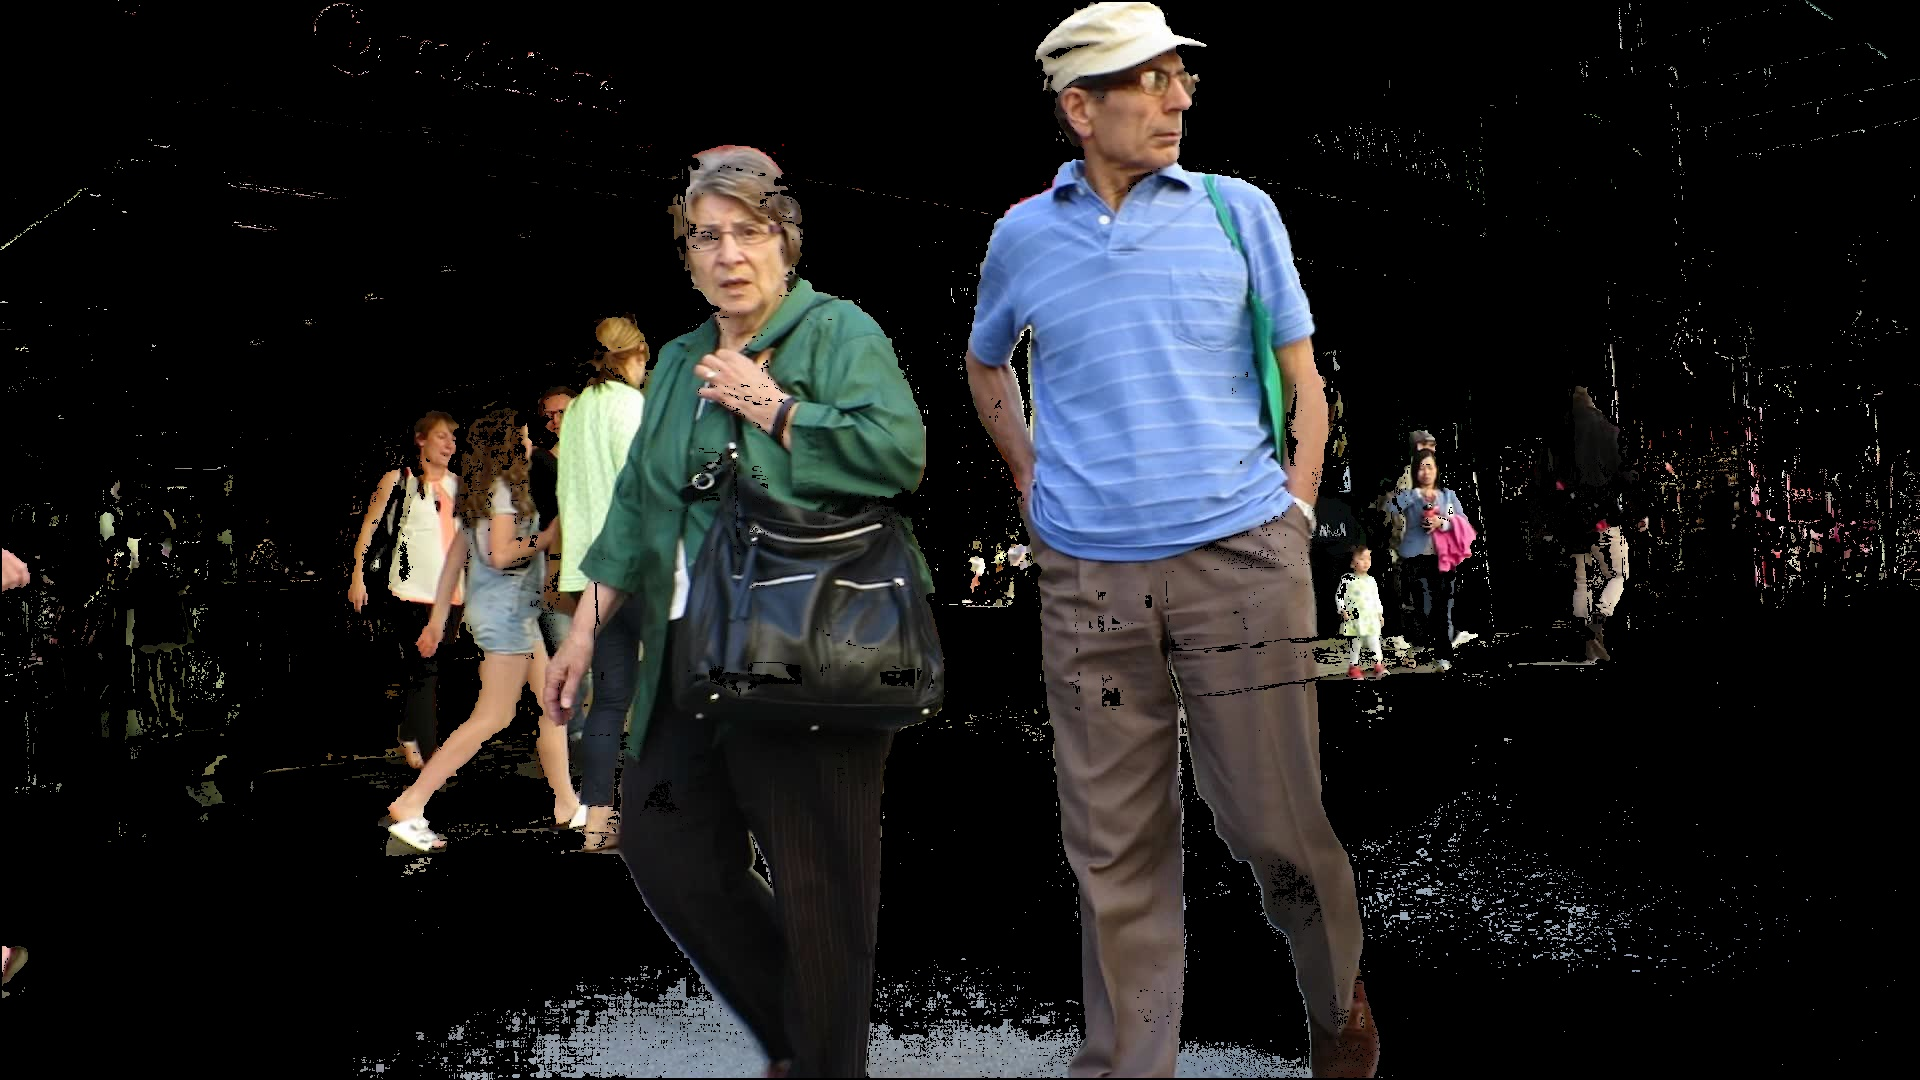
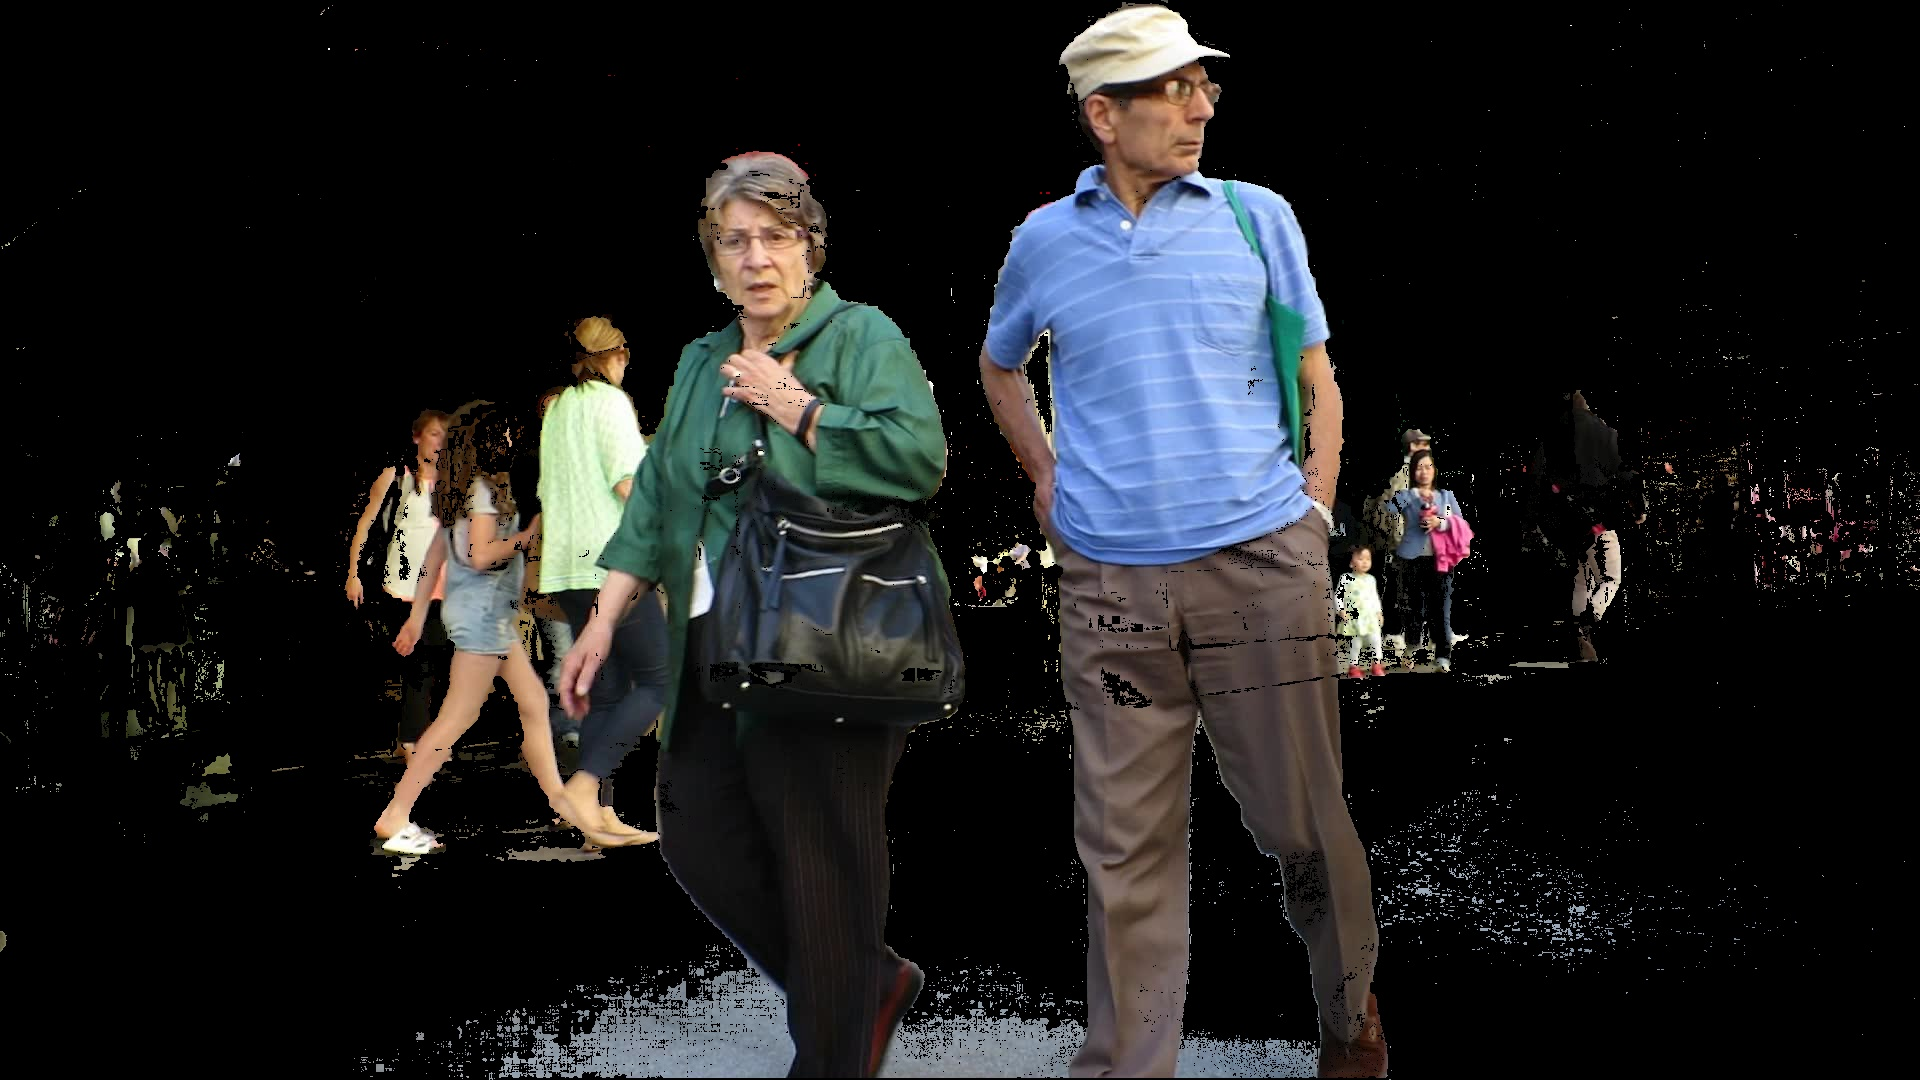
More test frame results. Small code changes.

diff --git a/src/test_implementation.py b/src/test_implementation.py
@@ -14,16 +14,13 @@ import sys
 from sklearn.cluster import KMeans
 from skimage.morphology import medial_axis
 
-# Get current working directoy; OS independent. Must change dir to parent
-w_dir = os.path.dirname(os.getcwd())
-
 # Windows specific path
 if sys.platform.startswith('win32'):
-    init_path = os.path.join(w_dir, "dataset\MOTSChallenge\\train\images\\")
+    init_path = "D:\Projects\MOTSChallenge2020\dataset\MOTSChallenge\\train\images\\"
 
 # Linux specific path
 elif sys.platform.startswith('linux'):
-    init_path = os.path.join(w_dir, 'dataset/MOTSChallenge/train/images/')
[1 lines of base64/hex data omitted]
 
 # Sub-directories tuple
 # TODO: implement non-stationary sequencies
@@ -45,6 +42,9 @@ except  OSError:
 # Initialize frame stream source
 cap = cv.VideoCapture('%6d.jpg')
 
+# Evaluate frame stream dimensions
+height, width, col = np.shape(cv.imread('000001.jpg'))
+
 # 9 by 9 rectangular window for morph operators
 kernel = np.ones((9, 9), dtype=np.uint8) 
 # Zivkovic MOG
@@ -53,8 +53,6 @@ fgbg = cv.createBackgroundSubtractorMOG2(detectShadows = False)
 # contours px size to accept
 contour_size = 60
 
-# Frame shape flag
-flg_shp = True
 
 while True:
     # Capture frame-by-frame
@@ -64,25 +62,12 @@ while True:
     if not ret:
         break
     
-    # Evaluate frame's shape
-    if flg_shp:
-        height, width, col = np.shape(frame)
-        
-        # Set flag status to false
-        flg_shp = False
-    
     # Evaluate foreground mask
     fgmask = fgbg.apply(frame)
     
     # Image processing function
     # Self bitwise operation on current frame
     res = cv.bitwise_and(frame,frame, mask= fgmask)
-    
-    # Morphologically dilate current frame
-    # e_im = cv.dilate(fgmask, kernel, iterations = 1)
-    
-    # Morphologically close current frame
-    # e_im = cv.morphologyEx(e_im, cv.MORPH_CLOSE, kernel)
     
     # Evaluate & capture each entire silhouettes
     contours, hierarchy = cv.findContours(fgmask, cv.RETR_EXTERNAL,
@@ -102,33 +87,31 @@ while True:
         del contours[i - num]
         num = num + 1
     
-    # Loop though each contour's mask
+    # # Loop though each contour's mask
     # for i in range(len(contours)):
-    #     # Select current contour
-    #     temp_cnt = contours[i]
-        
     #     # Initialize mask
     #     temp_mask = np.zeros((height, width), dtype=np.uint8)
         
     #     # Evaluate mask of current contour
-    #     temp_mask = cv.drawContours(temp_mask, [temp_cnt], 0, 0, -1)
+    #     temp_mask = cv.drawContours(temp_mask, contours, i, 255, -1)
         
     #     # Isolate selected contour in current frame
     #     tmp_frame = cv.bitwise_and(frame, frame, mask=temp_mask)
         
-        # Evaluate skeleton of current contour
-        # skel, distance = medial_axis(temp_mask, return_distance=True)
         
-        # Distance to the background for pixels of the skeleton
-        # dist_on_skel = distance * skel
+    #     # Evaluate skeleton of current contour
+    #     skel, distance = medial_axis(temp_mask, return_distance=True)
         
-        # Approach 1: K-means on histogram
-        # Initialize histogram array of each colour channel
-        # hist = np.zeros((255, 3), dtype=np.uint32)
-        # for c in range(col):
-        #     # Evaluate histogram; 255 due to Red contour draw(Red channel only.
-        #     hist[:, c] = np.reshape(cv.calcHist([frame], [c], temp_mask, [255], [0, 255]),
-        #                             (255))
+    #     # Distance to the background for pixels of the skeleton
+    #     dist_on_skel = distance * skel
+        
+    #     # Approach 1: K-means on histogram
+    #     # Initialize histogram array of each colour channel
+    #     hist = np.zeros((255, 3), dtype=np.uint32)
+    #     for c in range(col):
+    #         # Evaluate histogram; 255 due to Red contour draw(Red channel only.
+    #         hist[:, c] = np.reshape(cv.calcHist([frame], [c], temp_mask, [255], [0, 255]),
+    #                                 (255))
             
             # # Apporach 1.1: Find optimal number of clusters
             # # TODO: Implement cluster estimator; for loop & array sizes.

diff --git a/src/my_functions.py b/src/my_functions.py
@@ -799,17 +799,21 @@ def frame_proc(frame, fgmask, kernel, contour_size):
                         
                         contours: The detected contous of current frame
     '''
+    
+    # Perform bitwise and operation using the morphological processed frame as
+    # a mask
+    res = cv.bitwise_and(frame,frame, mask = fgmask)
     # Self bitwise operation on current frame
-    res = cv.bitwise_and(frame,frame, mask= fgmask)
+    # res = cv.bitwise_and(frame,frame, mask=fgmask)
     
     # Morphologically dilate current frame
-    e_im = cv.dilate(fgmask, kernel, iterations = 1)
+    # e_im = cv.dilate(fgmask, kernel, iterations = 1)
     
     # Morphologically close current frame
-    e_im = cv.morphologyEx(e_im, cv.MORPH_CLOSE, kernel)
+    # e_im = cv.morphologyEx(e_im, cv.MORPH_CLOSE, kernel)
     
     # Evaluate & capture each entire silhouettes
-    contours, hierarchy = cv.findContours(e_im, cv.RETR_EXTERNAL,
+    contours, hierarchy = cv.findContours(fgmask, cv.RETR_EXTERNAL,
                                           cv.CHAIN_APPROX_SIMPLE)
     
     # Remove contours that are lower than threshold's value
@@ -826,12 +830,9 @@ def frame_proc(frame, fgmask, kernel, contour_size):
         del contours[i - num]
         num = num + 1
     
-    # Perform bitwise and operation using the morphological processed frame as
-    # a mask
-    res2 = cv.bitwise_and(frame,frame, mask = e_im)
     
     # Implement outputs as a pandas Series object
-    out = pd.Series((res2, res, contours))
+    out = pd.Series((res, contours))
     
     # Return resulting frames and detected contours
     return(out)

diff --git a/src/skel_test.py b/src/skel_test.py
@@ -12,29 +12,9 @@ import matplotlib.pyplot as plt
 import skimage.morphology as morph
 import cv2 as cv
 import open3d as o3d
-import os
-import sys
-
-# Get current working directoy; OS independent. Must change dir to parent
-w_dir = os.path.dirname(os.getcwd())
-
-# Windows specific path
-if sys.platform.startswith('win32'):
-    init_path = os.path.join(w_dir, "dataset\test_case_frames\\")
-
-# Linux specific path
-elif sys.platform.startswith('linux'):
-    init_path = os.path.join(w_dir, 'dataset/test_case_frames/')
-
-try:
-    os.chdir(init_path)
-# Error handling
-except  OSError:
-    sys.exit("Invalid path.")
-
 
 # Test frame's path
-path = 'multi_cluster_case.jpg'
+path = '0test_frame.jpg'
 
 # Read test frame
 img = cv.imread(path)
@@ -82,7 +62,7 @@ dist_on_skel = distance * skel
 ## Approach 6: Normalize distance &apply Low Pass FIR Filter
 
 # Normalize distance; min values can be omited
-dist_norm = (distance - np.min(distance)) / (np.max(distance) - np.min(distance))
+dist_norm = (distance - distance.min()) / (distance.max() - distance.min())
 
 # Apply theshold/ FIR operation
 dist_norm = np.where(dist_norm >=0.8, np.float32(0), dist_norm)

diff --git a/src/Background_segmentation(TB_main).py b/src/Background_segmentation(TB_main).py
@@ -68,12 +68,11 @@ def main_f(path):
         fgmask = fgbg.apply(frame)
         
         # Image processing function
-        (res2, res, contours) = f.frame_proc(frame, fgmask, kernel, contour_size)
-        
+        (res, contours) = f.frame_proc(frame, fgmask, kernel, contour_size)
         
         # Show resulting frames
         # cv.imshow('Foreground', res2)
-        cv.drawContours(res, contours, -1, (0, 0, 255), 2)
+        cv.drawContours(res, contours, -1, (0, 0, 0), 2)
         cv.imshow('Contours', res)
         
         # To break, press the q key
@@ -203,7 +202,7 @@ if __name__ == '__main__':
     
     # Sub-directories tuple
     # TODO: implement non-stationary sequencies
-    dirs = ('0002', '0009')
+    dirs = ('0002', '0005', '0009', '0011')
     
     # Loop through each sub-directory
     for i in dirs:
